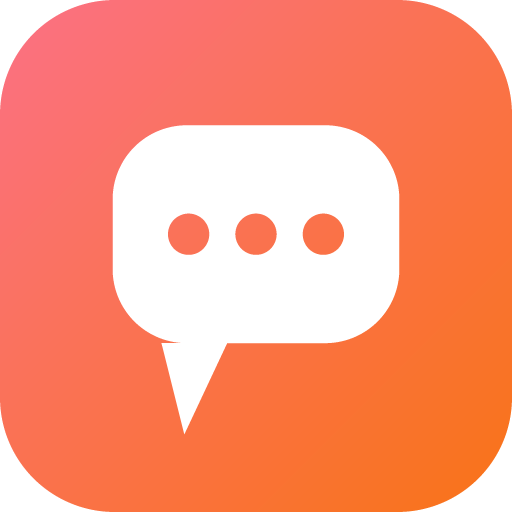
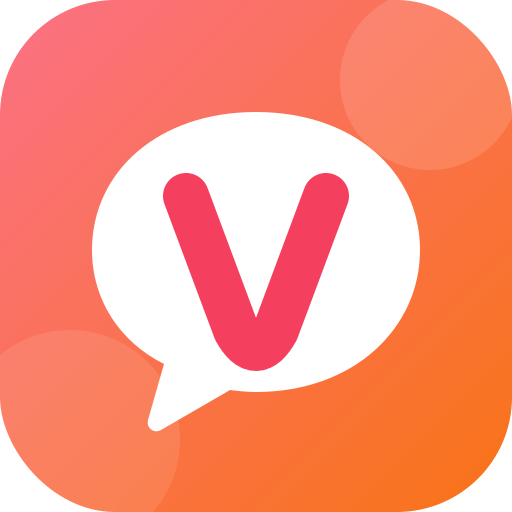
🎨 벨챗 아이콘 실제 시안 교체 + iOS 180px 재생성
- velchat-icon-192/512/maskable-512.png 가 실제 시안으로 덮어써진 것 확인
  (코랄 그라데이션 배경 + 흰 말풍선 + 진한 코랄 V)
- iOS용 velchat-icon-180.png 를 512에서 다시 생성 (의존성 없이 PNG 디코드 →
  박스 필터 축소 → 재인코딩, 알파 프리멀티플라이로 가장자리 검은 테 방지)

★ 180px 원본은 maskable-512 를 썼다
  velchat-icon-512.png(any)는 모서리 알파가 0이다. iOS 는 apple-touch-icon 의
  투명 영역을 검정으로 합성해서, 그대로 줄이면 홈 화면 아이콘 네 귀퉁이에
  검은 테가 생긴다. maskable-512 는 모서리 알파가 255(불투명 풀블리드)이고
  iOS 가 자체 스퀘어클 마스크를 씌우므로 이쪽이 올바른 원본이다.

- 스탬프 재실행 — BUILD_ID 6a696f89ec6c (HTML·sw.js 동기화 확인, 재실행 시 변경 없음)

Claude-Session: https://claude.ai/code/session_0162W3eWgooB86ycmt9vgNzq

diff --git a/vela-boardroom-prototype.html b/vela-boardroom-prototype.html
@@ -7,7 +7,7 @@
 <meta name="description" content="벨챗 — 베테랑 셋이 상주하는 아이디어 단톡방. 아무 얘기나 던지면 관련 있는 사람만 답하고, 주제가 잡히면 그 분야 전문가가 합류합니다." />
 
 <!-- PWA · manifest 쿼리는 vela-boardroom-stamp.js 가 BUILD_ID 로 갱신한다 -->
-<link rel="manifest" href="vela-boardroom-manifest.json?b=7781ff8f0dba" />
+<link rel="manifest" href="vela-boardroom-manifest.json?b=6a696f89ec6c" />
 <meta name="theme-color" content="#dbeafe" id="metaThemeColor" />
 <meta name="color-scheme" content="light dark" />
 <!-- 표준 PWA meta (Chrome 등 — 2023+ 표준) -->

diff --git a/vela-boardroom-sw.js b/vela-boardroom-sw.js
@@ -16,7 +16,7 @@
  * ============================================================= */
 
 const APP_VERSION = '2.4.0';
-const BUILD_ID = /* __BUILD_ID__ */ '7781ff8f0dba' /* __BUILD_ID_END__ */;
+const BUILD_ID = /* __BUILD_ID__ */ '6a696f89ec6c' /* __BUILD_ID_END__ */;
 
 const CACHE_VERSION = `vela-boardroom-v${APP_VERSION}-${BUILD_ID}`;
 const STATIC_CACHE = `${CACHE_VERSION}-static`;
